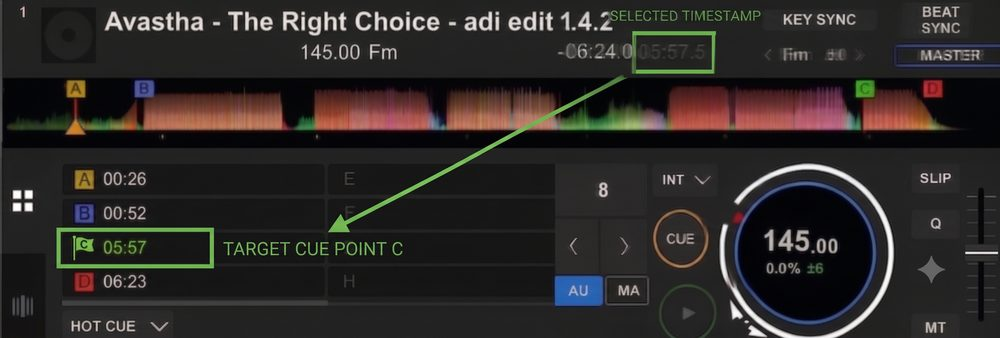
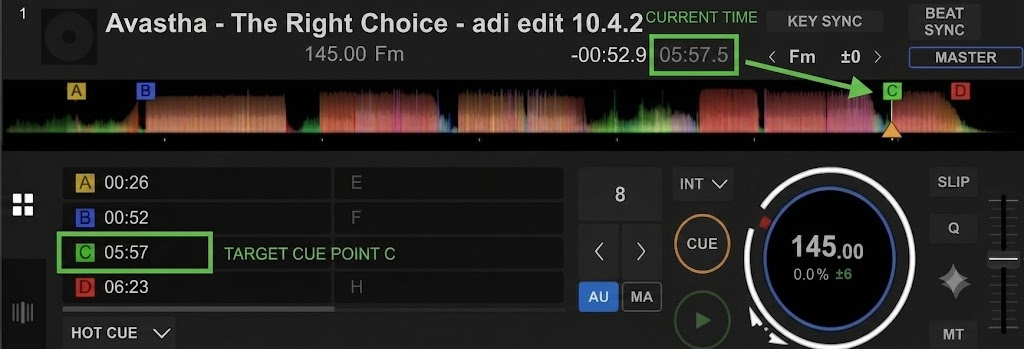
rekordbox_que_counter: higher-res help photos + caption numbers matched
Adi re-exported the two rekordbox screenshots at higher resolution (1024px,
~70KB). Updated the How-it-works captions/examples to match the new cue-out
photo, which reads 05:57.5 (so cue out 5:57.5, play time 5:31.1).

diff --git a/tools/rekordbox_que_counter/index.html b/tools/rekordbox_que_counter/index.html
@@ -274,12 +274,12 @@ try {
     </figure>
     <figure class="helpfig">
       <img src="img/cue-out-example.jpg" alt="Rekordbox: hot cue C at 5:57.4 — the cue out (next track start)">
-      <figcaption><b>Cue out</b> — hot cue&nbsp;C here reads <code>05:57.4</code> → type <code>5:57.4</code></figcaption>
+      <figcaption><b>Cue out</b> — hot cue&nbsp;C here reads <code>05:57.5</code> → type <code>5:57.5</code></figcaption>
     </figure>
     <p class="note">
-      <b>Play Time</b> = Cue out − Cue in (here <code>5:31.0</code>), and <b>Set time</b> is the running length of the whole set.<br><br>
-      Time formats: <code>5:57.4</code> (rekordbox, tenths), <code>5:57</code>, <code>5.57</code> (5&nbsp;min&nbsp;57&nbsp;s, like the old Excel),
-      <code>5.57.4</code> (Excel style + tenths), or <code>1:02:37</code>.<br><br>
+      <b>Play Time</b> = Cue out − Cue in (here <code>5:31.1</code>), and <b>Set time</b> is the running length of the whole set.<br><br>
+      Time formats: <code>5:57.5</code> (rekordbox, tenths), <code>5:57</code>, <code>5.57</code> (5&nbsp;min&nbsp;57&nbsp;s, like the old Excel),
+      <code>5.57.5</code> (Excel style + tenths), or <code>1:02:37</code>.<br><br>
       <b>▶</b> opens the track in a new tab — a YouTube search for the track name by default,
       or any link you set with <b>✎</b> (YouTube, SoundCloud, …). Rename the list with the <b>✎</b> next to its name.<br><br>
       <b>Users:</b> Public is open to everyone. Log in (👤 button) with a username and password for your own lists —